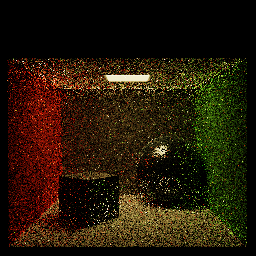
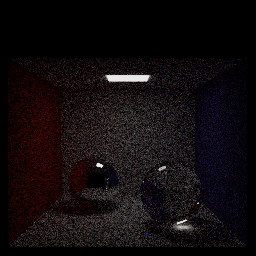
glass working but scene dark

diff --git a/solver/solver.h b/solver/solver.h
@@ -151,10 +151,7 @@ std::tuple<Vector3f,float> sampleMirrorDir(Vector3f w_i, Vector3f normal) {
 // Returns a refracted or reflected ray based on Snell's Law and Schlicks Approx.
 std::tuple<Vector3f,float> sampleDielectricDir(Vector3f w_i, Vector3f normal, float ior) {
 
-    // argument to the square root for finding cos theta out. We check for real or complex solutions:
-
-    float cos_theta_in = std::clamp(w_i.dot(normal),-1.f,1.f);
-
+    float cos_theta_in = w_i.dot(normal);
     float omega_i, omega_o;
     Vector3f n;
 
@@ -164,15 +161,12 @@ std::tuple<Vector3f,float> sampleDielectricDir(Vector3f w_i, Vector3f normal, fl
         omega_o = ior;
         cos_theta_in = -cos_theta_in;
         n = normal;
-
-
     }
     //object into air
     else {
         omega_i = ior;
         omega_o = 1.0f;
         n = -normal;
-
     }
 
     float ratio = (omega_i/omega_o);
@@ -183,19 +177,26 @@ std::tuple<Vector3f,float> sampleDielectricDir(Vector3f w_i, Vector3f normal, fl
         return sampleMirrorDir(w_i, normal);
     }
 
+    //schlicks approximation for probability of reflectance
+    float prob_reflect = schlick(cos_theta_in,omega_i,omega_o);
+
+    //reflect
+    if (randomFloat() < prob_reflect) {
+        return std::tuple<Vector3f,float>(reflectVec3(w_i,normal).normalized(),prob_reflect);
+    }
+
+    //refract
     float cos_theta_out = float(sqrt(argument));
-    Vector3f w_o = ratio*w_i + (ratio*cos_theta_in - cos_theta_out)*n;
+    Vector3f direction = ratio*w_i + (ratio*cos_theta_in - cos_theta_out)*n;
+    float prob_refract = 1.0f - prob_reflect;
 
-    Vector3f direction = w_o;
-    float prob = 1.0f;
-
-    return std::tuple<Vector3f,float>(direction,prob);
+    return std::tuple<Vector3f,float>(direction.normalized(),prob_refract);
 
 }
 
 
 // Returns the BRDF Vector quantity given a BRDF type
-Vector3f BRDF( const BRDF_TYPE brdfType , const Vector3f w_i, const Vector3f w_o, const Vector3f normal, const CS123SceneGlobalData& sceneData, const tinyobj::material_t& mat) {
+Vector3f BRDF( const BRDF_TYPE brdfType , const Vector3f w_i, const Vector3f w_o, const Vector3f normal, const float prob, const CS123SceneGlobalData& sceneData, const tinyobj::material_t& mat) {
     const tinyobj::real_t *d = mat.diffuse;
     const tinyobj::real_t *s = mat.specular;
     Vector3f reflection = reflectVec3(w_i,normal);
@@ -214,7 +215,7 @@ Vector3f BRDF( const BRDF_TYPE brdfType , const Vector3f w_i, const Vector3f w_o
         return (1.0f/reflection.dot(normal))*Vector3f(1.0f,1.0f,1.0f);
 
       case BRDF_DIELECTRIC:
-         return (1.0f/w_o.dot(normal))*Vector3f(1.0f,1.0f,1.0f);
+         return prob*(1.0f/w_o.dot(normal))*Vector3f(1.0f,1.0f,1.0f);
       default:
         return Vector3f(d[0],d[1],d[2])/M_PI;
 

diff --git a/pathtracer.cpp b/pathtracer.cpp
@@ -49,14 +49,14 @@ Vector3f PathTracer::tracePixel(int x, int y, const Scene& scene, const Matrix4f
            r = r.transform(invViewMatrix);
 
            //trace ray
-           total_radiance += radiance(r,scene);
+           total_radiance += radiance(r,scene,0);
        }
       return total_radiance/K;
 }
 
 // Traces Ray and return whether there was a intersection and the corresponding IntersectionInfo
 // Computes the outgoing radiance at x along -w (reflected incoming ray)
-Vector3f PathTracer::radiance(const Ray& r, const Scene& scene ) {
+Vector3f PathTracer::radiance(const Ray& r, const Scene& scene, int depth ) {
 
     IntersectionInfo intersectionInfo;
     Ray ray(r);
@@ -74,8 +74,8 @@ Vector3f PathTracer::radiance(const Ray& r, const Scene& scene ) {
 
         float probRussian = 0.90f;
 
-        // russian roulette
-        if (probRussian > randomFloat()) {
+        // russian roulette (but we bounce at least 1 time)
+        if (probRussian > randomFloat() || depth == 0) {
 
 
             //get BRDF, w_i, object normal and sample next direction
@@ -96,11 +96,11 @@ Vector3f PathTracer::radiance(const Ray& r, const Scene& scene ) {
 
             // if sampled ray does NOT go into the surface, we recurse, otherwise we terminate our ray
 
-                Vector3f brdf = BRDF(brdfType,w_i,w_o,objNormal,scene.m_globalData,material);
+                Vector3f brdf = BRDF(brdfType,w_i,w_o,objNormal,pdf,scene.m_globalData,material);
 
                  //trace new ray recursivley
                 Ray newRay = Ray(intersectionInfo.hit,w_o);
-                Vector3f outgoingRadiance = radiance(newRay,scene);
+                Vector3f outgoingRadiance = radiance(newRay,scene,depth + 1);
 
                 // Approximate indirect lighting contribution to integral
                  L_total += (outgoingRadiance.cwiseProduct(brdf)) * (-w_i).dot(objNormal)*(1.0f/(pdf*probRussian));

diff --git a/pathtracer.h b/pathtracer.h
@@ -21,7 +21,7 @@ private:
 
 
     void toneMap(QRgb *imageData, std::vector<Vector3f> &intensityValues);
-    Vector3f radiance(const Ray& r, const Scene& scene);
+    Vector3f radiance(const Ray& r, const Scene& scene, int depth);
     Vector3f tracePixel(int x, int y, const Scene &scene, const Matrix4f &invViewMatrix);
     std::tuple<bool,IntersectionInfo> traceRay(const Ray& r, const Scene &scene);
 };

diff --git a/util/utils.h b/util/utils.h
@@ -47,4 +47,10 @@ inline Matrix3f rotateHemisphereMatrix(Vector3f normal) {
 
 }
 
+// Schlick's approximation for the probability of reflectance
+inline float schlick(float cosine, float omega_i, float omega_o) {
+    float r0 = pow((omega_i - omega_o) / (omega_i + omega_o),2);
+    return r0 + (1 - r0) * pow((1 - cosine), 5);
+}
+
 #endif // UTILS_H

diff --git a/util/CS123Common.h b/util/CS123Common.h
@@ -22,8 +22,8 @@
 
 typedef float REAL;
 
-#define IMAGE_WIDTH 512
-#define IMAGE_HEIGHT 512
+#define IMAGE_WIDTH 256
+#define IMAGE_HEIGHT 256
 
 #define MIN(a, b) (a) < (b) ? (a) : (b)
 #define MAX(a, b) (a) > (b) ? (a) : (b)
